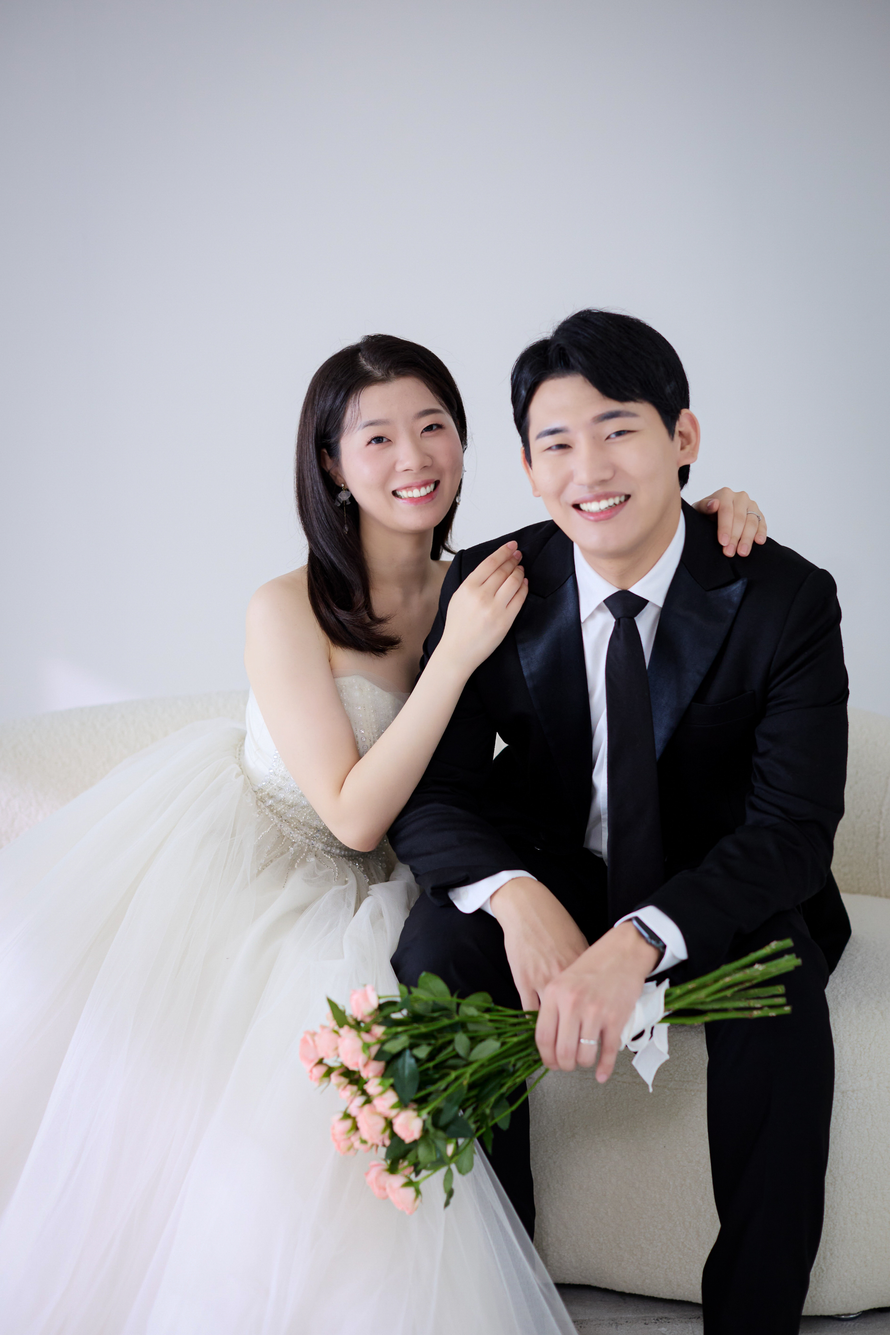
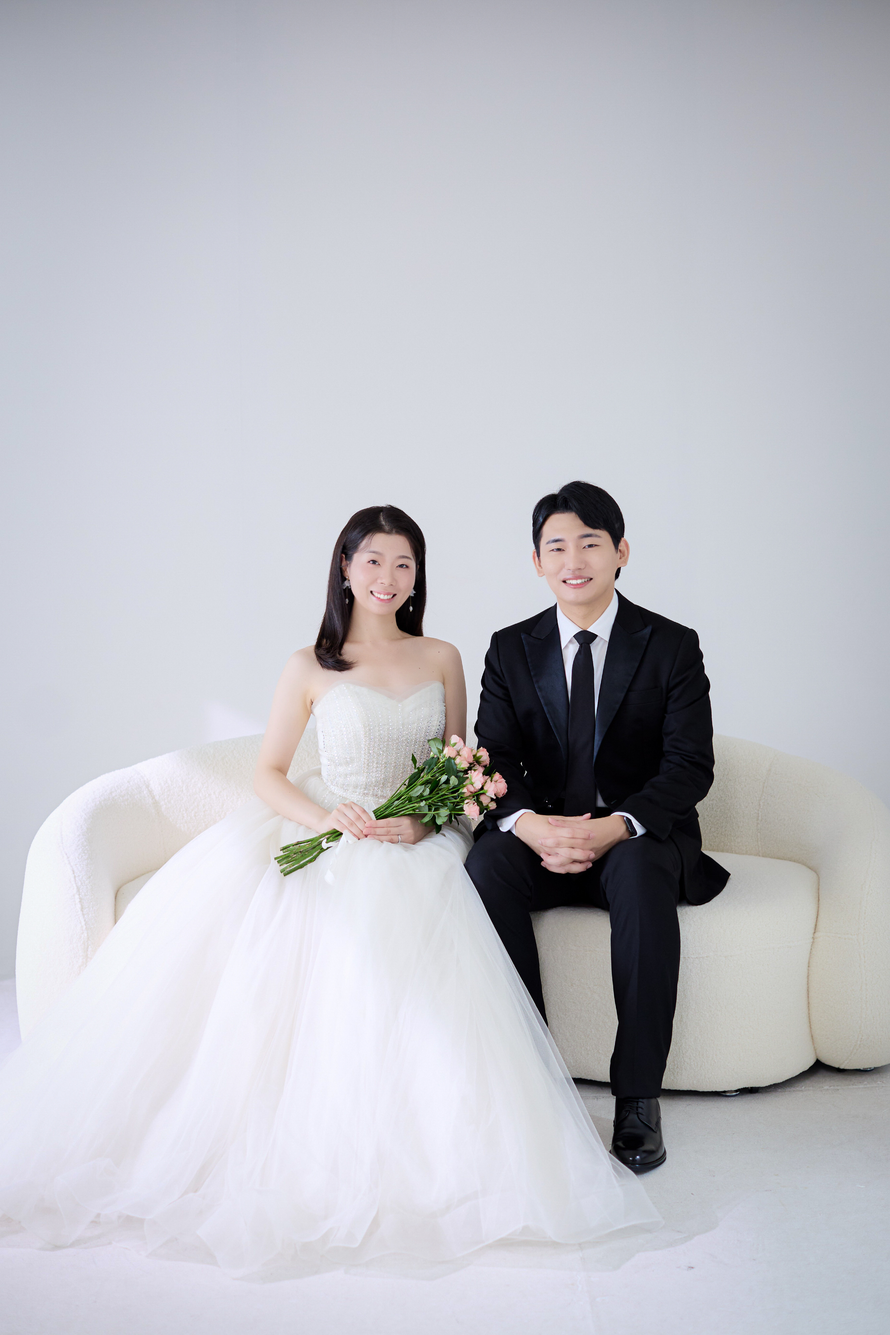
add img, text

diff --git a/index.html b/index.html
@@ -122,8 +122,8 @@
                             信頼と愛を約束する日に<br>
                             お越しいただき祝福していただければ<br>
                             この上ない喜びとして心に刻みます<br><br>
-                            ご多用のところかと存じますがご列席いただきたく<br>
-                            お願い申し上げます
+                            ご多用のところかと存じますが<br>
+                            ご列席頂きたくお願い申し上げます
                         </p>
                         
                         <span class="ft-opti mb-4"><span style="font-weight: bold;">ジョ ヨグン ・ イ ヨンスク</span><span style="font-size: 0.8rem;">の長男</span><span style="font-weight: bold;">曺 允相</span><br>

diff --git a/css/app.css b/css/app.css
@@ -678,6 +678,7 @@ body:lang(jp){
     border-radius: 50%;
 }
 .crop {
+  transform: scale(1.1);
   width: 100%;
   height: 100%;
   object-fit: cover;

diff --git a/dashboard.html b/dashboard.html
@@ -1,5 +1,5 @@
 <!doctype html>
-<html lang="ko" data-bs-theme="light">
+<html lang="jp" data-bs-theme="light">
 
 <head>
     <!-- Common -->
